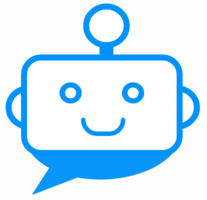
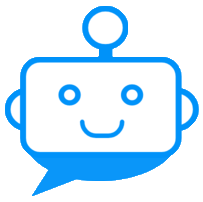
Final@home

diff --git a/src/app/template/template.component.html b/src/app/template/template.component.html
@@ -14,7 +14,7 @@
             <a>Contact Us |</a>
             <a popover="This Functionality will be integrated with iCETS ChatBots" popoverPlacement="bottom"
                 [popoverCloseOnClickOutside]="true" style="cursor: pointer;">
-            <img id="chat-logo" src="../assets/application_images/chatbot.jpg" alt="Chat logo"/> |</a>
+            <img id="chat-logo" src="../assets/application_images/live_chat.jpg" alt="Chat logo"/> |</a>
             <img src="../assets/user_images/userPic.jpg" alt="Profile Pic" class="userPic"/>
             <span class="userName">Julio</span>
         </div>

diff --git a/src/styles.css b/src/styles.css
@@ -6,13 +6,14 @@
     line-height: 0.9em;
 }
 body {  
-    background-image: url('/assets/application_images/background-image.jpg')
+    background-image: url('/assets/application_images/background-image.jpg');
+    padding: 0px !important;
 }
 #chat-logo {
     width: 6.5rem;
     height: auto;
     cursor: pointer;
-    border-radius: 50px;
+    /* border-radius: 50px; */
 }
 label {
     line-height: 25px;
@@ -22,6 +23,9 @@ label {
 }
 .alignCenter {
     text-align: center !important;
+}
+.modal-open {
+    overflow: auto !important;
 }
 .title {
     color: white;

diff --git a/src/app/welcome/welcome.component.html b/src/app/welcome/welcome.component.html
@@ -14,7 +14,7 @@
       <a>Contact Us |</a>
       <a popover="This Functionality will be integrated with iCETS ChatBots" popoverPlacement="bottom"
         [popoverCloseOnClickOutside]="true" style="cursor: pointer;">
-        <img id="chat-logo" src="../assets/application_images/chatbot.jpg" alt="Chat logo"/></a>
+        <img id="chat-logo" src="../assets/application_images/live_chat.jpg" alt="Chat logo"/></a>
       <a id="signIn_signUp" data-toggle="modal" data-target="#myModal" href="">| SignIn/SignUp</a>
     </div>
   </div>

diff --git a/src/app/welcome/welcome.component.ts b/src/app/welcome/welcome.component.ts
@@ -22,13 +22,13 @@ export class WelcomeComponent {
     var pwd = this.signIn.password;
     if(email=="Julio.Jones@Falcons.com" && pwd=="Falcons"){
       this._router.navigate(['/home-page']);
-      location.reload();
+      // location.reload();
     }
     else
       this.validCredentials = false;
   }
   onSignUp() {
-    location.reload();
     this._router.navigate(['/home-page']);
+    // location.reload();
   }
 }
